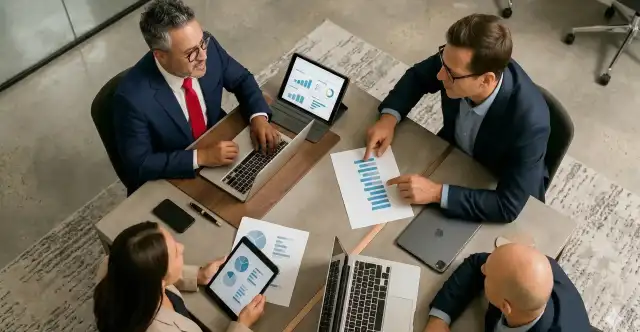
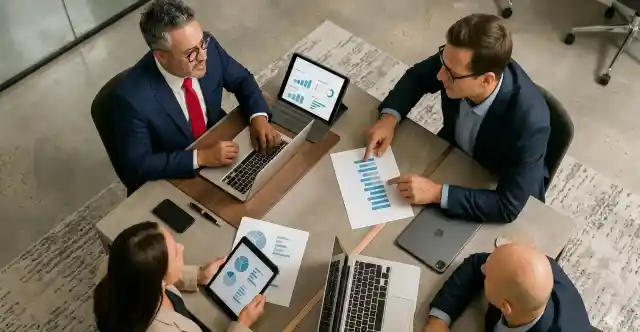
Reduce DOM size and optimize LCP hero delivery
- Remove duplicate slider slide (3→2), decorative shape images
- SearchPopup: conditionally render only when active (saves ~6 DOM elements)
- Hero image: decoding=sync for faster LCP render
- hero-mobile.webp: 15 KiB at q=35 (was 20 KiB)

Changed region(s): [[0.5625, 0.8434, 0.5938, 0.8735], [0.4688, 0.3012, 0.5, 0.3313], [0.4688, 0.241, 0.5, 0.2711]]

diff --git a/components/sections/home1/Banner.tsx b/components/sections/home1/Banner.tsx
@@ -1,5 +1,4 @@
 "use client";
-import { useState } from "react";
 import { Autoplay, Navigation, Pagination } from "swiper/modules";
 import { Swiper, SwiperSlide } from "swiper/react";
 
@@ -24,10 +23,9 @@ const swiperOptions = {
 };
 
 export default function Banner() {
-  const [isOpen, setOpen] = useState(false);
   return (
     <>
-      {/* Main Sllider Start */}
+      {/* Main Slider Start */}
       <section className="main-slider">
         <Swiper
           {...swiperOptions}
@@ -45,20 +43,12 @@ export default function Banner() {
                     src="/assets/images/backgrounds/hero.webp"
                     alt="Engineering Excellence for Asset-Intensive Enterprises"
                     fetchPriority="high"
-                    decoding="async"
+                    decoding="sync"
                     style={{ position: "absolute", width: "100%", height: "100%", inset: 0, objectFit: "cover" }}
                   />
                 </picture>
               </div>
-              {/* /.slider-one__bg */}
               <div className="main-slider__shape-1" />
-              <div className="main-slider__shape-2 float-bob-y">
-                <img
-                  src="assets/images/shapes/main-slider-shape-2.webp"
-                  alt="Decorative slider shape"
-                />
-              </div>
-              {/* dot overlay hidden for cleaner hero */}
               <div className="container">
                 <div className="main-slider__content">
                   <p className="main-slider__sub-title">
@@ -89,54 +79,7 @@ export default function Banner() {
                     "url(assets/images/backgrounds/hero.webp)",
                 }}
               ></div>
-              {/* /.slider-one__bg */}
               <div className="main-slider__shape-1" />
-              <div className="main-slider__shape-2 float-bob-y">
-                <img
-                  src="assets/images/shapes/main-slider-shape-2.webp"
-                  alt="Decorative slider shape"
-                />
-              </div>
-              {/* dot overlay hidden for cleaner hero */}
-              <div className="container">
-                <div className="main-slider__content">
-                  <p className="main-slider__sub-title">
-                    Oracle JD Edwards | Enterprise Consulting
-                  </p>
-                  <h2 className="main-slider__title">
-                    Engineering Excellence <br /> for Asset-Intensive Enterprises
-                  </h2>
-                  <p className="main-slider__text">
-                    Expert Oracle JD Edwards consulting for Mining, Oil & Gas, Pharmaceuticals, and Utilities.
-                  </p>
-                  <div className="main-slider__btn-box">
-                    <a href="contact" className="thm-btn main-slider__btn">
-                      Schedule Consultation
-                      <span className="fa fa-plus" />
-                    </a>
-                  </div>
-                </div>
-              </div>
-            </div>
-          </SwiperSlide>
-          <SwiperSlide>
-            <div className="item main-slider__slide-3">
-              <div
-                className="main-slider__bg"
-                style={{
-                  backgroundImage:
-                    "url(assets/images/backgrounds/slider-1-3.webp)",
-                }}
-              ></div>
-              {/* /.slider-one__bg */}
-              <div className="main-slider__shape-1" />
-              <div className="main-slider__shape-2 float-bob-y">
-                <img
-                  src="assets/images/shapes/main-slider-shape-2.webp"
-                  alt="Decorative slider shape"
-                />
-              </div>
-              {/* dot overlay hidden for cleaner hero */}
               <div className="container">
                 <div className="main-slider__content">
                   <p className="main-slider__sub-title">
@@ -160,7 +103,7 @@ export default function Banner() {
           </SwiperSlide>
         </Swiper>
       </section>
-      {/*Main Sllider Start */}
+      {/* Main Slider End */}
     </>
   );
 }

diff --git a/components/layout/SearchPopup.tsx b/components/layout/SearchPopup.tsx
@@ -6,22 +6,19 @@ interface SearchPopupProps {
 }
 
 export default function SearchPopup({ isPopup, handlePopup }: SearchPopupProps) {
+    if (!isPopup) return null;
     return (
-        <>
-            
-            <div className={`search-popup ${isPopup ? "active" : ""}`}>
-                <div className="search-popup__overlay search-toggler" onClick={handlePopup}></div>
-                <div className="search-popup__content">
-                    <form action="#">
-                        <label className="sr-only">search here</label>
-                        <input type="text" id="search" placeholder="Search Here..." />
-                        <button type="submit" aria-label="search submit" className="thm-btn">
-                            <i className="icon-search"></i>
-                        </button>
-                    </form>
-                </div>
+        <div className="search-popup active">
+            <div className="search-popup__overlay search-toggler" onClick={handlePopup}></div>
+            <div className="search-popup__content">
+                <form action="#">
+                    <label className="sr-only">search here</label>
+                    <input type="text" id="search" placeholder="Search Here..." />
+                    <button type="submit" aria-label="search submit" className="thm-btn">
+                        <i className="icon-search"></i>
+                    </button>
+                </form>
             </div>
-
-        </>
+        </div>
     )
 }